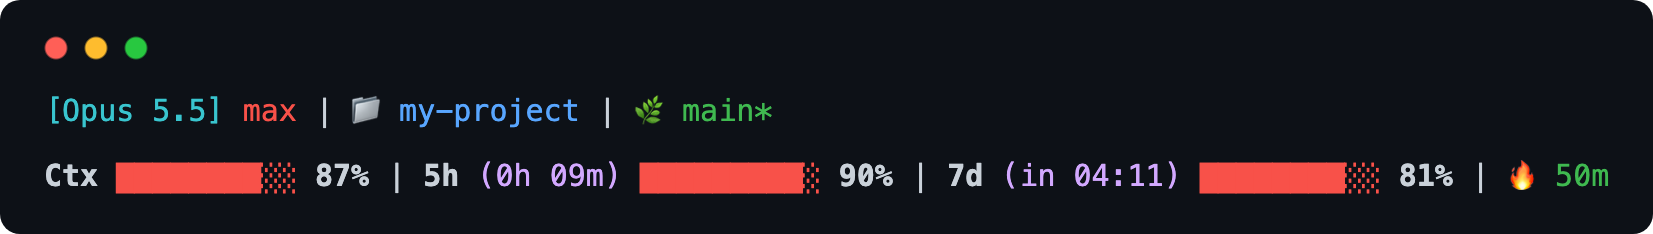
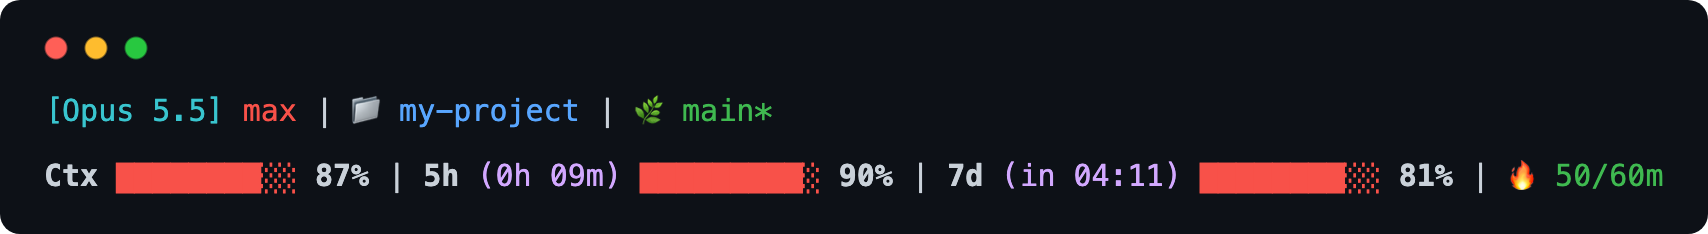
Show the warm cache as minutes left out of its TTL
Claude Code now gives some sessions a 5-minute TTL instead of 1 hour. On
that TTL every request pushes expires_at back to about five minutes out, so
a bare "🔥 4m" looked frozen, and the fixed 15-minute threshold kept it
yellow for good.

The segment now reads left/TTL in minutes ("4/5m", "45/60m") and turns
yellow when less than a quarter of the TTL is left, which is still 15
minutes on 1h. Without a .ttl in the JSON it falls back to the old display.

README and HOW-IT-WORKS explain both timers, ❄ ?, and the promptCacheTtl
setting. Screenshots regenerated, with a 5-minute row added, and the weekly
label no longer names a day the image may not show.

diff --git a/docs/generate-screenshots.py b/docs/generate-screenshots.py
@@ -31,7 +31,7 @@ FG = {"31": "#f85149", "32": "#3fb950", "33": "#db9e18",
 
 def session(ctx_tokens=300_000, window=1_000_000, effort="high",
             five=62, five_left=5000, seven=55, seven_left=200_000,
-            cache_warm=True, cache_left=2400, cold_tokens=120_000,
+            cache_warm=True, cache_left=2400, cold_tokens=120_000, ttl="1h",
             model="Opus 5.5", cwd=None):
     now = int(time.time())
     return {
@@ -45,7 +45,7 @@ def session(ctx_tokens=300_000, window=1_000_000, effort="high",
             "seven_day": {"used_percentage": seven, "resets_at": now + seven_left},
         },
         "prompt_cache": {"warm": cache_warm, "expires_at": now + cache_left,
-                         "ttl": "1h", "recache_tokens_if_cold": cold_tokens},
+                         "ttl": ttl, "recache_tokens_if_cold": cold_tokens},
     }
 
 
@@ -205,7 +205,7 @@ def main():
     shoot("overview", [
         (None, l1, ["Model and effort", "Folder", "Git branch (* = unsaved changes)"]),
         (None, l2, ["Room left in the conversation", "5-hour limit, resets in 1h 23m",
-                    "Weekly limit, resets Friday", "Memory kept warm for 40 more min"]),
+                    "Weekly limit and when it resets", "Memory kept warm for 40 of 60 min"]),
     ])
 
     shoot("calm", [(None, line, None) for line in
@@ -218,6 +218,7 @@ def main():
     shoot("cache", [
         ("Warm, plenty of time", s(cache_left=2700)[1], None),
         ("Warm, running out: send something within 8 minutes to keep it", s(cache_left=500)[1], None),
+        ("Warm on the 5-minute timer: every message starts it over", s(cache_left=270, ttl="5m")[1], None),
         ("Cold: the next message costs about 240k tokens", s(cache_warm=False, cache_left=-60)[1], None),
     ])
 

diff --git a/README.md b/README.md
@@ -40,12 +40,16 @@ The 5h and 7d bars only appear on a Claude subscription (Pro or Max), and only a
 
 #### 🔥 and ❄: Claude's short-term memory
 
-After each message, Claude keeps your conversation ready in memory for a while (usually an hour). That's the **cache**. While it's warm, continuing the conversation is cheap. Every message you send restarts the timer.
+After each message, Claude keeps your conversation ready in memory for a while. That's the **cache**. While it's warm, continuing the conversation is cheap. Every message you send restarts the timer.
 
-- **🔥 45m** means the cache is warm and will stay that way for 45 more minutes. It turns yellow when there's less than a quarter of an hour left.
-- **❄ 240k** means it has gone cold. Your next message has to send the whole conversation again, which uses a lot more of your limits. The number is roughly how much, measured in tokens (pieces of text).
+How long "a while" is depends on your account: an hour on a Claude subscription within its limits, five minutes otherwise. So the timer shows both numbers.
 
-![The cache in its three states: warm, running out, and cold](docs/img/cache.png)
+- **🔥 45/60m** means the cache is warm and will stay that way for 45 more minutes out of the hour. **🔥 4/5m** is the same on the five-minute timer: while you're working it hovers between 4 and 5, because every message starts it over. It turns yellow when less than a quarter of the time is left.
+- **❄ 240k** means it has gone cold. Your next message has to send the whole conversation again, which uses a lot more of your limits. The number is roughly how much, measured in tokens (pieces of text). **❄ ?** means Claude Code hasn't measured it yet, which happens right after `/clear` or a compaction.
+
+**If you expected an hour and see /5m**, your session got the short timer. You can ask for the hour yourself with `"promptCacheTtl": "1h"` in `~/.claude/settings.json` (Claude Code v2.1.242 or later). See [Anthropic's page on cache lifetime](https://code.claude.com/docs/en/prompt-caching#cache-lifetime) for when each one applies.
+
+![The cache: warm, running out, warm on the five-minute timer, and cold](docs/img/cache.png)
 
 **What to do with this:** if you see ❄ with a big number, you're coming back to a long conversation after a break. If you don't need everything in it, start fresh with `/clear` instead. It costs almost nothing.
 

diff --git a/docs/HOW-IT-WORKS.md b/docs/HOW-IT-WORKS.md
@@ -37,6 +37,14 @@ If you shrink the window with `CLAUDE_CODE_AUTO_COMPACT_WINDOW` or the `autoComp
 
 ❄ shows `recache_tokens_if_cold` × the cache-write multiplier: 2× on the 1-hour TTL (Claude Code's default) and 1.25× on the 5-minute one (which applies in usage overage). It is the price of the next message in plain-input-token equivalents, not the size of the context. The multiplier follows `.ttl` instead of being hardcoded.
 
+`recache_tokens_if_cold` reads 0 right after a compaction or `/clear`, because the new prefix has never been sent. That is "not measured", not "free", so it shows as `❄ ?` instead of `❄ 0k`.
+
+## The warm-cache timer
+
+🔥 shows minutes left out of the TTL, both in minutes: `4/5m`, `45/60m`. A bare `4m` looked frozen on the 5-minute TTL, because every request pushes `expires_at` back to about five minutes out, and mixed units (`45m/1h`) read badly. The colour turns yellow when less than a quarter of the TTL is left, which is 15 minutes on the 1-hour TTL. If the JSON has no `.ttl`, the segment falls back to a bare `45m` and the fixed 15-minute threshold.
+
+Which TTL a session gets is Claude Code's choice: the main conversation gets 1 hour on a subscription within plan usage and 5 minutes otherwise, and the `promptCacheTtl` setting overrides it ([Anthropic's docs](https://code.claude.com/docs/en/prompt-caching#which-ttl-each-request-gets)).
+
 ## Settings you can change
 
 All at the top of the script:
@@ -49,7 +57,7 @@ All at the top of the script:
 | `CTX_MARGIN_PCT` | 15 | …capped at this share of small windows |
 | `CTX_FALLBACK_PCT` | 85 | Used only when there's no window size |
 
-Thresholds: bars are green below 50 %, yellow 50–75 %, and red above 75 %. The cache turns yellow under 15 minutes. The 7d reset time appears under 48 hours left or at 50 % used, and becomes a countdown under 12 hours.
+Thresholds: bars are green below 50 %, yellow 50–75 %, and red above 75 %. The cache turns yellow when less than a quarter of its TTL is left. The 7d reset time appears under 48 hours left or at 50 % used, and becomes a countdown under 12 hours.
 
 ## Portability
 
